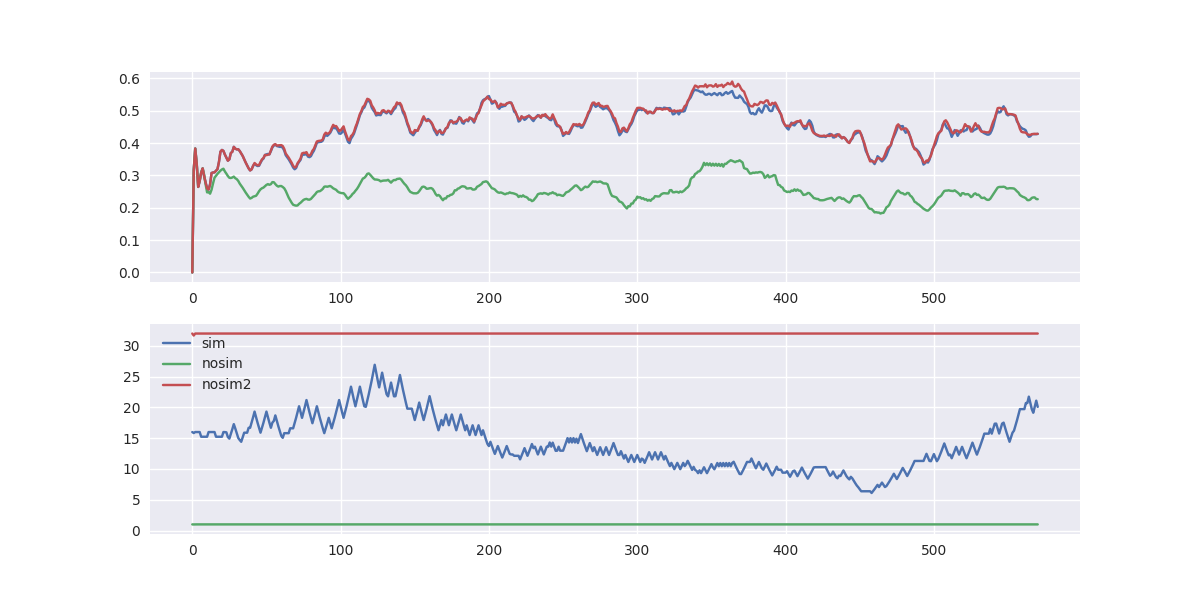
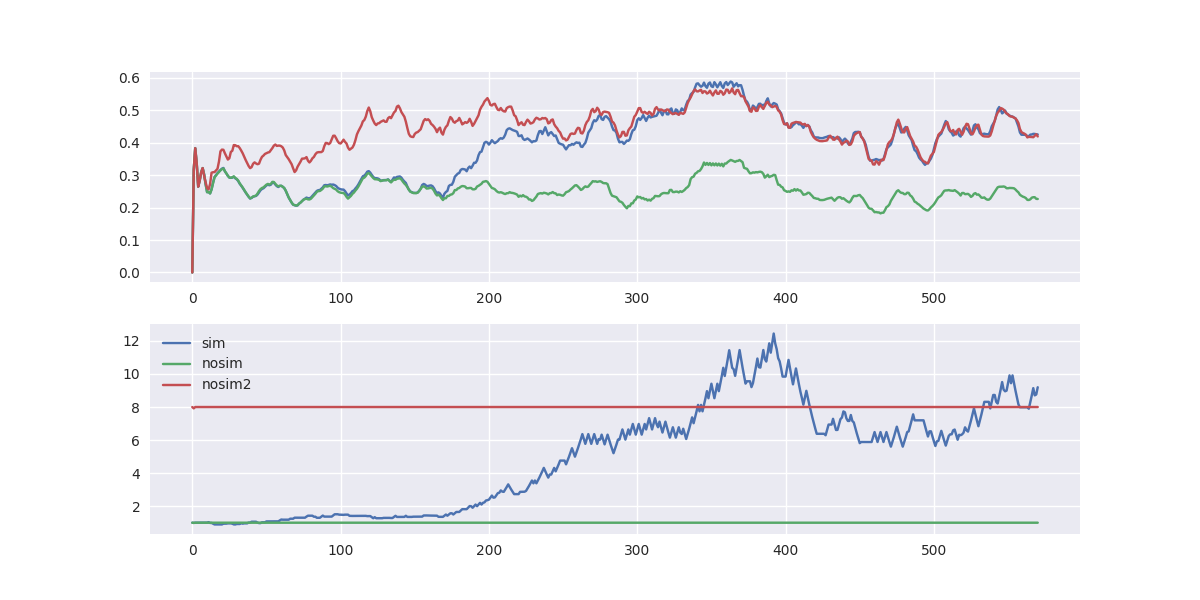
1024b

diff --git a/plots/D4.2/main.py b/plots/D4.2/main.py
@@ -72,7 +72,7 @@ def RunAndGetHitRateAndParam(policy, buffer_size, ptrace, param):
     for line in lines:
         print(line)
         _, _, _, hr, _, _, _, p, _, _ = line.strip().split(' ')
-        hrs.append(float(hr))
+        hrs.append(float(hr) * 100)
         ps.append(float(p))
     dhrs = [0]
     dps = [param[0]]
@@ -91,14 +91,15 @@ def RunAndGetHitRateAndParam(policy, buffer_size, ptrace, param):
         tsum_hr += hr
     return dhrs, dps
 
-total_size = 2000
-buffer_size = 0.001
-trace = 'proj_prxy'
-p1 = [1, 1, 6, 4, 1.0, 20000, 0.5, 0.05, 0.00, 0.01, 1, 1024, 10000]
-p2 = [1, 1, 6, 4, 1.0, 20000, 0.5, 0.05, 0.00, 0.00, 1, 1024, 10000]
-p3 = [64, 1, 6, 4, 1.0, 20000, 0.5, 0.05, 0.00, 0.00, 1, 1024, 10000]
 
-if __name__ == "__main__":
+
+def online():
+    total_size = 2000
+    buffer_size = 0.1
+    trace = 'online'
+    p1 = [1, 1, 6, 4, 1.0, 20000, 0.5, 0.05, 0.00, 0.05, 1, 1024, 10000]
+    p2 = [1, 1, 6, 4, 1.0, 20000, 0.5, 0.05, 0.00, 0.00, 1, 1024, 10000]
+    p3 = [8, 1, 6, 4, 1.0, 20000, 0.5, 0.05, 0.00, 0.00, 1, 1024, 10000]
     # sim_hrs, sim_ps = GetHitRateAndParam('local/webmail_0.001_sim.log')
     sim_hrs, sim_ps = RunAndGetHitRateAndParam('RGC4', buffer_size, f'traces/{trace}.lis', p1)
     nosim_hrs, nosim_ps = RunAndGetHitRateAndParam('RGC4', buffer_size, f'traces/{trace}.lis', p2)
@@ -132,6 +133,47 @@ if __name__ == "__main__":
     ax.plot(X, nosim_ps2, label='nosim2')
     plt.legend()
     plt.savefig(f'plots/D4.2/{trace}_2.png')
+
+def webmail():
+    total_size = 2000
+    buffer_size = 0.001
+    trace = 'webmail'
+    p1 = [64, 1, 6, 4, 1.0, 20000, 0.5, 0.05, 0.00, 0.01, 1, 1024, 10000]
+    p2 = [1, 1, 6, 4, 1.0, 20000, 0.5, 0.05, 0.00, 0.00, 1, 1024, 10000]
+    p3 = [64, 1, 6, 4, 1.0, 20000, 0.5, 0.05, 0.00, 0.00, 1, 1024, 10000]
+    # sim_hrs, sim_ps = GetHitRateAndParam('local/webmail_0.001_sim.log')
+    sim_hrs, sim_ps = RunAndGetHitRateAndParam('RGC4', buffer_size, f'traces/{trace}.lis', p1)
+    nosim_hrs, nosim_ps = RunAndGetHitRateAndParam('RGC4', buffer_size, f'traces/{trace}.lis', p2)
+    nosim_hrs2, nosim_ps2 = RunAndGetHitRateAndParam('RGC4', buffer_size, f'traces/{trace}.lis', p3)
+    # nosim_hrs, nosim_ps = GetHitRateAndParam('local/webmail_0.001_nosim.log')
+
+    X = np.arange(len(sim_hrs))
+    # print(X, len(sim_hrs), down_sample_group_size)
+    fig, axes = plt.subplots(2, 1, figsize=(12, 6), sharex=True)
+
+    ax = axes[0]
+    ax.plot(X, sim_hrs, label='RGC')
+    ax.plot(X, nosim_hrs, label='RGC($R_t$=1)')
+    ax.plot(X, nosim_hrs2, label='RGC($R_t$=64)')
+    # ax.xaxis.set_visible(False)
+    # ax.set_yticks(0)
+    # ax.set_ytickslabel('')
+    ax.set_ylabel('Hit Rate(%)')
+
+    ax = axes[1]
+    ax.plot(X, sim_ps, label='RGC')
+    ax.plot(X, nosim_ps, label='RGC($R_t$=1)')
+    ax.plot(X, nosim_ps2, label='RGC($R_t$=64)')
+    ax.set_ylabel('$R_t$')
+    ax.set_xlabel(r'Requests($\times$10000)')
+
+    fig.tight_layout(w_pad=2)
+
+    plt.legend()
+    plt.savefig(f'plots/D4.2/{trace}_2.png')
+
+if __name__ == "__main__":
+    webmail()
 
     #
     # fig.tight_layout(h_pad=1.5, w_pad=0.0)
